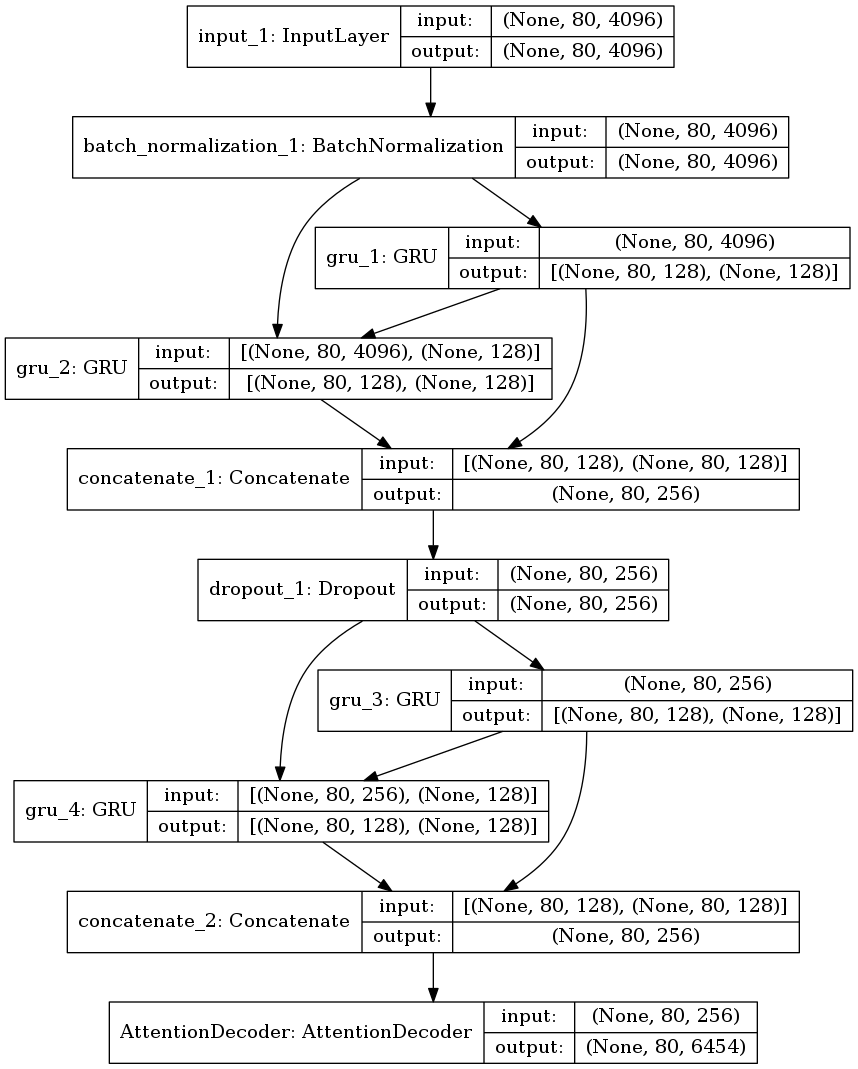
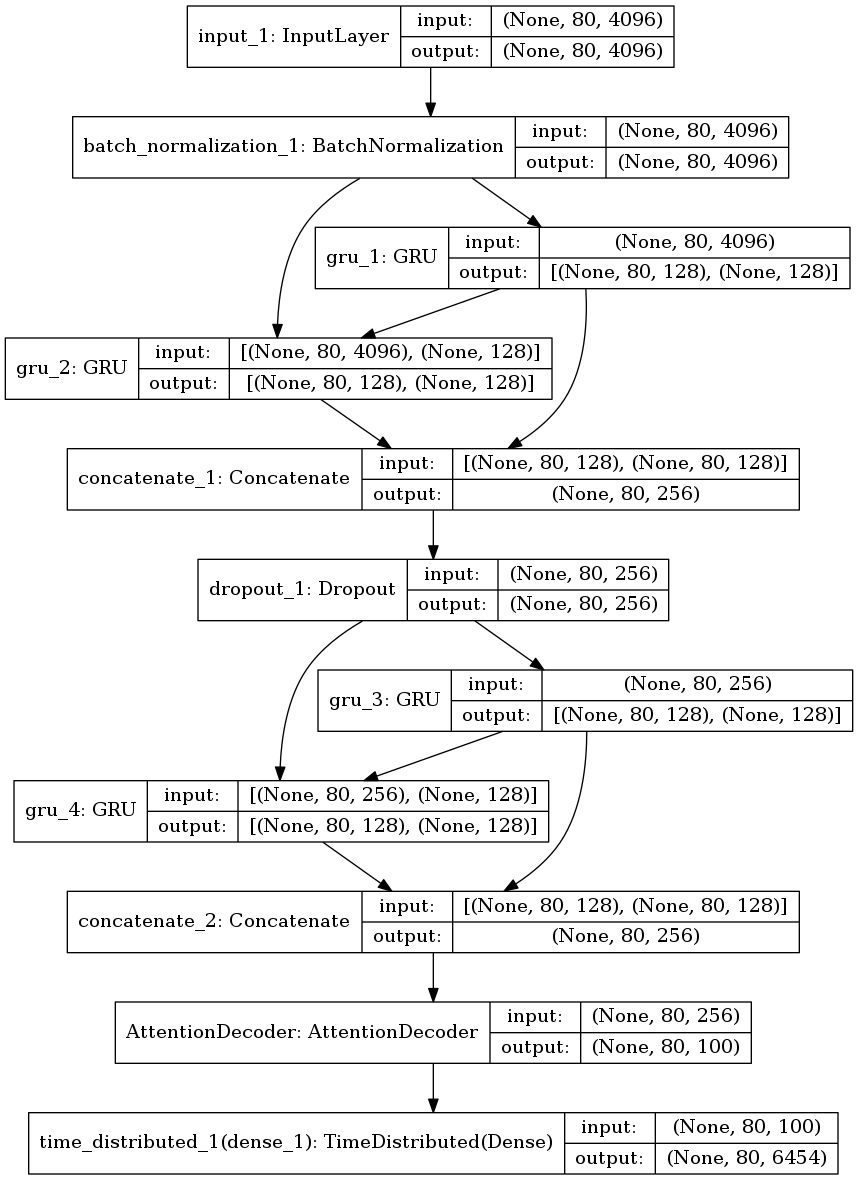
before change to 1 input decoder

Changed region(s): [[0.0, 0.0, 1.0, 1.0]]

diff --git a/hw2/scripts/custom_recurrents.py b/hw2/scripts/custom_recurrents.py
@@ -10,6 +10,7 @@ class AttentionDecoder(Recurrent):
 
     def __init__(self, units, output_dim,
                  activation='tanh',
+                 recurrent_activation='hard_sigmoid',
                  return_probabilities=False,
                  name='AttentionDecoder',
                  kernel_initializer='glorot_uniform',
@@ -21,6 +22,7 @@ class AttentionDecoder(Recurrent):
                  kernel_constraint=None,
                  bias_constraint=None,
                  train_by_label=False,
+                 use_bias = True,
                  **kwargs):
         """
         Implements an AttentionDecoder that takes in a sequence encoded by an
@@ -37,6 +39,7 @@ class AttentionDecoder(Recurrent):
         self.output_dim = output_dim
         self.return_probabilities = return_probabilities
         self.activation = activations.get(activation)
+        self.recurrent_activation = activations.get(recurrent_activation)
         self.kernel_initializer = initializers.get(kernel_initializer)
         self.recurrent_initializer = initializers.get(recurrent_initializer)
         self.bias_initializer = initializers.get(bias_initializer)
@@ -50,6 +53,7 @@ class AttentionDecoder(Recurrent):
         self.recurrent_constraint = constraints.get(kernel_constraint)
         self.bias_constraint = constraints.get(bias_constraint)
 
+        self.use_bias = use_bias
         super(AttentionDecoder, self).__init__(**kwargs)
         self.name = name
         self.return_sequences = True  # must return sequences
@@ -60,131 +64,75 @@ class AttentionDecoder(Recurrent):
           See Appendix 2 of Bahdanau 2014, arXiv:1409.0473
           for model details that correspond to the matrices here.
         """
-
-        self.batch_size, self.timesteps, self.input_dim = input_shape
+        self.batch_size, self.timesteps, self.input_dim = input_shape[0]
+        self.output_len,self.label_dim = input_shape[1][1:]
+        self.input_spec = [
+            InputSpec(shape=(self.batch_size, self.timesteps, self.input_dim)),
+            InputSpec(shape=(input_shape[1]))]
 
         if self.stateful:
             super(AttentionDecoder, self).reset_states()
 
-        self.states = [None, None]  # y, s
+        self.states = [None, self.units]  # y, s
 
         """
-            Matrices for creating the context vector
-        """
+            Matrices for GRU cells, copy source from keras.layers.recurrent.py with tag 2.0.7
 
+        """
+        self.kernel = self.add_weight(shape=(self.input_dim, self.units * 4),
+                                      name='kernel',
+                                      initializer=self.kernel_initializer,
+                                      regularizer=self.kernel_regularizer,
+                                      constraint=self.kernel_constraint)
+        self.recurrent_kernel = self.add_weight(
+            shape=(self.units, self.units * 4),
+            name='recurrent_kernel',
+            initializer=self.recurrent_initializer,
+            regularizer=self.recurrent_regularizer,
+            constraint=self.recurrent_constraint)
+
+        if self.use_bias:
+            self.bias = self.add_weight(shape=(self.units * 4,),
+                                        name='bias',
+                                        initializer=self.bias_initializer,
+                                        regularizer=self.bias_regularizer,
+                                        constraint=self.bias_constraint)
+        else:
+            self.bias = None
+        """
+            Setting matrics variables
+        """
+        self.kernel_z = self.kernel[:, :self.units]
+        self.recurrent_kernel_z = self.recurrent_kernel[:, :self.units]
+
+        self.kernel_r = self.kernel[:, self.units: self.units * 2]
+        self.recurrent_kernel_r = self.recurrent_kernel[:,self.units : self.units * 2]
+
+        self.kernel_h = self.kernel[:, self.units * 2:self.units * 3]
+        self.recurrent_kernel_h = self.recurrent_kernel[:, self.units * 2:self.units * 3]
+
+        if self.use_bias:
+            self.bias_z = self.bias[:self.units]
+            self.bias_r = self.bias[self.units: self.units * 2]
+            self.bias_h = self.bias[self.units * 2:self.units * 3]
+        else:
+            self.bias_z = None
+            self.bias_r = None
+            self.bias_h = None
+        """
+            Setting matrices for creating the context vector
+        """
         self.V_a = self.add_weight(shape=(self.units,),
                                    name='V_a',
                                    initializer=self.kernel_initializer,
                                    regularizer=self.kernel_regularizer,
                                    constraint=self.kernel_constraint)
-        self.W_a = self.add_weight(shape=(self.units, self.units),
-                                   name='W_a',
-                                   initializer=self.kernel_initializer,
-                                   regularizer=self.kernel_regularizer,
-                                   constraint=self.kernel_constraint)
-        self.U_a = self.add_weight(shape=(self.input_dim, self.units),
-                                   name='U_a',
-                                   initializer=self.kernel_initializer,
-                                   regularizer=self.kernel_regularizer,
-                                   constraint=self.kernel_constraint)
-        self.b_a = self.add_weight(shape=(self.units,),
-                                   name='b_a',
-                                   initializer=self.bias_initializer,
-                                   regularizer=self.bias_regularizer,
-                                   constraint=self.bias_constraint)
-        """
-            Matrices for the r (reset) gate
-        """
-        self.C_r = self.add_weight(shape=(self.input_dim, self.units),
-                                   name='C_r',
-                                   initializer=self.recurrent_initializer,
-                                   regularizer=self.recurrent_regularizer,
-                                   constraint=self.recurrent_constraint)
-        self.U_r = self.add_weight(shape=(self.units, self.units),
-                                   name='U_r',
-                                   initializer=self.recurrent_initializer,
-                                   regularizer=self.recurrent_regularizer,
-                                   constraint=self.recurrent_constraint)
-        self.W_r = self.add_weight(shape=(self.output_dim, self.units),
-                                   name='W_r',
-                                   initializer=self.recurrent_initializer,
-                                   regularizer=self.recurrent_regularizer,
-                                   constraint=self.recurrent_constraint)
-        self.b_r = self.add_weight(shape=(self.units, ),
-                                   name='b_r',
-                                   initializer=self.bias_initializer,
-                                   regularizer=self.bias_regularizer,
-                                   constraint=self.bias_constraint)
-
-        """
-            Matrices for the z (update) gate
-        """
-        self.C_z = self.add_weight(shape=(self.input_dim, self.units),
-                                   name='C_z',
-                                   initializer=self.recurrent_initializer,
-                                   regularizer=self.recurrent_regularizer,
-                                   constraint=self.recurrent_constraint)
-        self.U_z = self.add_weight(shape=(self.units, self.units),
-                                   name='U_z',
-                                   initializer=self.recurrent_initializer,
-                                   regularizer=self.recurrent_regularizer,
-                                   constraint=self.recurrent_constraint)
-        self.W_z = self.add_weight(shape=(self.output_dim, self.units),
-                                   name='W_z',
-                                   initializer=self.recurrent_initializer,
-                                   regularizer=self.recurrent_regularizer,
-                                   constraint=self.recurrent_constraint)
-        self.b_z = self.add_weight(shape=(self.units, ),
-                                   name='b_z',
-                                   initializer=self.bias_initializer,
-                                   regularizer=self.bias_regularizer,
-                                   constraint=self.bias_constraint)
-        """
-            Matrices for the proposal
-        """
-        self.C_p = self.add_weight(shape=(self.input_dim, self.units),
-                                   name='C_p',
-                                   initializer=self.recurrent_initializer,
-                                   regularizer=self.recurrent_regularizer,
-                                   constraint=self.recurrent_constraint)
-        self.U_p = self.add_weight(shape=(self.units, self.units),
-                                   name='U_p',
-                                   initializer=self.recurrent_initializer,
-                                   regularizer=self.recurrent_regularizer,
-                                   constraint=self.recurrent_constraint)
-        self.W_p = self.add_weight(shape=(self.output_dim, self.units),
-                                   name='W_p',
-                                   initializer=self.recurrent_initializer,
-                                   regularizer=self.recurrent_regularizer,
-                                   constraint=self.recurrent_constraint)
-        self.b_p = self.add_weight(shape=(self.units, ),
-                                   name='b_p',
-                                   initializer=self.bias_initializer,
-                                   regularizer=self.bias_regularizer,
-                                   constraint=self.bias_constraint)
-        """
-            Matrices for making the final prediction vector
-        """
-        self.C_o = self.add_weight(shape=(self.input_dim, self.output_dim),
-                                   name='C_o',
-                                   initializer=self.recurrent_initializer,
-                                   regularizer=self.recurrent_regularizer,
-                                   constraint=self.recurrent_constraint)
-        self.U_o = self.add_weight(shape=(self.units, self.output_dim),
-                                   name='U_o',
-                                   initializer=self.recurrent_initializer,
-                                   regularizer=self.recurrent_regularizer,
-                                   constraint=self.recurrent_constraint)
-        self.W_o = self.add_weight(shape=(self.output_dim, self.output_dim),
-                                   name='W_o',
-                                   initializer=self.recurrent_initializer,
-                                   regularizer=self.recurrent_regularizer,
-                                   constraint=self.recurrent_constraint)
-        self.b_o = self.add_weight(shape=(self.output_dim, ),
-                                   name='b_o',
-                                   initializer=self.bias_initializer,
-                                   regularizer=self.bias_regularizer,
-                                   constraint=self.bias_constraint)
+        self.W_a = self.recurrent_kernel[:, self.units * 3:]
+        self.U_a = self.kernel[:, self.units * 3:]
+        if self.use_bias:
+            self.b_a = self.bias[self.units * 3:]
+        else:
+            self.b_a = None
 
         # For creating the initial state:
         self.W_s = self.add_weight(shape=(self.input_dim, self.units),
@@ -192,14 +140,13 @@ class AttentionDecoder(Recurrent):
                                    initializer=self.recurrent_initializer,
                                    regularizer=self.recurrent_regularizer,
                                    constraint=self.recurrent_constraint)
-
-        self.input_spec = [
-            InputSpec(shape=(self.batch_size, self.timesteps, self.input_dim))]
         self.built = True
 
     def call(self, x):
         # store the whole sequence so we can "attend" to it at each timestep
-        self.x_seq = x
+        print('call x',x)
+        self.x_seq = x[0]
+        self_label = x[1]
 
         # apply the a dense layer over the time dimension of the sequence
         # do it here because it doesn't depend on any previous steps
@@ -209,9 +156,10 @@ class AttentionDecoder(Recurrent):
                                              timesteps=self.timesteps,
                                              output_dim=self.units)
 
-        return super(AttentionDecoder, self).call(x)
+        return super(AttentionDecoder, self).call(self.x_seq)
 
     def get_initial_state(self, inputs):
+        inputs = inputs[0]
         print('inputs shape:', inputs.get_shape())
 
         # apply the matrix on the first time step to get the initial s0.
@@ -222,7 +170,7 @@ class AttentionDecoder(Recurrent):
         y0 = K.zeros_like(inputs)  # (samples, timesteps, input_dims)
         y0 = K.sum(y0, axis=(1, 2))  # (samples, )
         y0 = K.expand_dims(y0)  # (samples, 1)
-        y0 = K.tile(y0, [1, self.output_dim])
+        y0 = K.tile(y0, [1, self.units])
 
         return [y0, s0]
 
@@ -250,28 +198,27 @@ class AttentionDecoder(Recurrent):
         # ~~~> calculate new hidden state
         # first calculate the "r" gate:
 
-        rt = activations.sigmoid(
-            K.dot(ytm, self.W_r)
-            + K.dot(stm, self.U_r)
-            + K.dot(context, self.C_r)
-            + self.b_r)
+        """
+            Original GRU cell operations.
+        
+        """
 
-        # now calculate the "z" gate
-        zt = activations.sigmoid(
-            K.dot(ytm, self.W_z)
-            + K.dot(stm, self.U_z)
-            + K.dot(context, self.C_z)
-            + self.b_z)
+        x_z = K.dot(context, self.kernel_z)
+        x_r = K.dot(context, self.kernel_r)
+        x_h = K.dot(context, self.kernel_h)
+        if self.use_bias:
+            x_z = K.bias_add(x_z, self.bias_z)
+            x_r = K.bias_add(x_r, self.bias_r)
+            x_h = K.bias_add(x_h, self.bias_h)
+        z = self.recurrent_activation(x_z + K.dot(stm, self.recurrent_kernel_z))
+        r = self.recurrent_activation(x_r + K.dot(stm, self.recurrent_kernel_r))
 
-        # calculate the proposal hidden state:
-        s_tp = activations.tanh(
-            K.dot(ytm, self.W_p)
-            + K.dot((rt * stm), self.U_p)
-            + K.dot(context, self.C_p)
-            + self.b_p)
-
-        # new hidden state:
-        st = (1-zt)*stm + zt * s_tp
+        hh = self.activation(x_h + K.dot(r * stm, self.recurrent_kernel_h))
+        h = z * stm + (1 - z) * hh
+        if 0 < self.dropout + self.recurrent_dropout:
+            h._uses_learning_phase = True
+        y = h
+        '''
         if self.train_by_label:
 
             yt = activations.softmax(
@@ -280,25 +227,26 @@ class AttentionDecoder(Recurrent):
                 + K.dot(context, self.C_o)
                 + self.b_o)
         else:
+            
             yt = activations.softmax(
                 K.dot(ytm, self.W_o)
                 + K.dot(stm, self.U_o)
                 + K.dot(context, self.C_o)
                 + self.b_o)
-
+        '''
         if self.return_probabilities:
             return at, [yt, st]
         else:
-            return yt, [yt, st]
+            return y, [y, h]
 
     def compute_output_shape(self, input_shape):
         """
             For Keras internal compatability checking
         """
         if self.return_probabilities:
-            return (None, self.timesteps, self.timesteps)
-        else:
             return (None, self.timesteps, self.output_dim)
+        else:
+            return (None, self.timesteps, self.units)
 
     def get_config(self):
         """

diff --git a/hw2/scripts/attention.py b/hw2/scripts/attention.py
@@ -15,6 +15,7 @@ def model(input_len,input_dim,output_len,vocab_dim):
     # Try replacing GRU, or SimpleRNN.
     #
     data = Input(shape=(input_len,input_dim))
+    label = Input(shape=(output_len,vocab_dim))
     #in this application, input dim = vocabulary dim
     #masking
     x = data
@@ -35,9 +36,11 @@ def model(input_len,input_dim,output_len,vocab_dim):
             x = Dropout(config.DROPOUT)(x)
 
     #word embedding
+    y = TimeDistributed(Dense(config.EMBEDDING_DIM,activation = 'linear'))(label)
     #decoder
     print('build attention')
-    y = custom_recurrents.AttentionDecoder(100,output_dim = vocab_dim)(x)
+    y = custom_recurrents.AttentionDecoder(100,output_dim = vocab_dim)([x,y])
+    y = TimeDistributed(Dense(vocab_dim,activation = 'softmax'))(y) 
     print('build attention done')
     
     model = Model(inputs = data,output=y)  

diff --git a/hw2/scripts/train_att.py b/hw2/scripts/train_att.py
@@ -65,8 +65,8 @@ if __name__ == '__main__':
             np.copyto(y2[:,:50,:],y)
             
             #np.copyto(train_cheat[:,1:,:],y[:,:-1,:])
-            his = model.fit(x=x, y=y2,
-                      batch_size=config.BATCH_SIZE,verbose=1,
+            his = model.fit(x=[x,y], y=y2,
+                      batch_size=2,verbose=1,
                       epochs=1)
 
 
